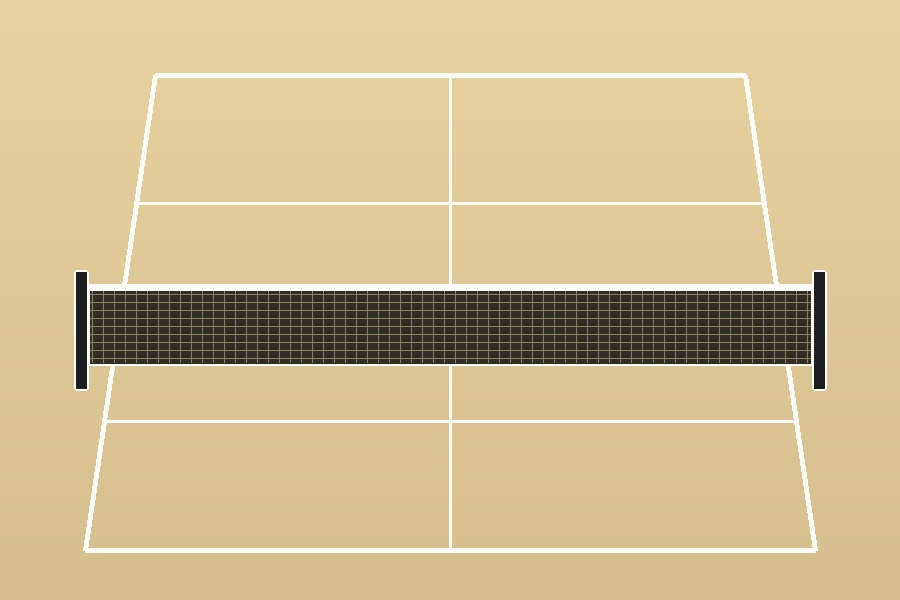
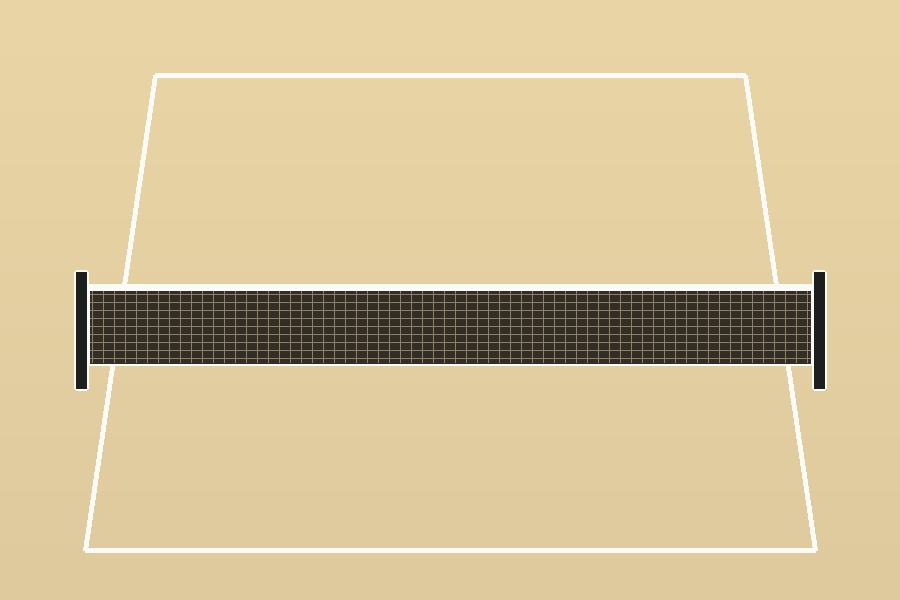
Add files via upload

Changed region(s): [[0.1244, 0.63, 0.8711, 0.9], [0.1556, 0.15, 0.84, 0.45]]

diff --git a/src/App.jsx b/src/App.jsx
@@ -13,21 +13,21 @@ const uid=()=>`${Date.now()}-${Math.random().toString(36).slice(2)}`;
 const clone=o=>JSON.parse(JSON.stringify(o));
 function useAsset(src){const[i,setI]=useState(null);useEffect(()=>{const x=new Image();x.src=src;x.onload=()=>setI(x)},[src]);return i}
 const starter=()=>[
- {id:uid(),type:"player",team:"A",x:320,y:445,label:"1",name:"Jogador 1",sprite:"back",visible:true},
- {id:uid(),type:"player",team:"A",x:610,y:445,label:"2",name:"Jogador 2",sprite:"back",visible:true},
- {id:uid(),type:"player",team:"B",x:330,y:235,label:"3",name:"Jogador 3",sprite:"front",visible:true},
- {id:uid(),type:"player",team:"B",x:610,y:235,label:"4",name:"Jogador 4",sprite:"front",visible:true},
- {id:uid(),type:"coach",x:110,y:410,label:"P",name:"Professor",sprite:"coach",visible:true}
+ {id:uid(),type:"player",team:"A",x:330,y:430,label:"1",name:"Jogador 1",sprite:"back",visible:true},
+ {id:uid(),type:"player",team:"A",x:595,y:430,label:"2",name:"Jogador 2",sprite:"back",visible:true},
+ {id:uid(),type:"player",team:"B",x:340,y:225,label:"3",name:"Jogador 3",sprite:"front",visible:true},
+ {id:uid(),type:"player",team:"B",x:585,y:225,label:"4",name:"Jogador 4",sprite:"front",visible:true},
+ {id:uid(),type:"coach",x:120,y:410,label:"P",name:"Professor",sprite:"coach",visible:true}
 ];
 
 export default function App(){
  const stageRef=useRef(), boxRef=useRef();
  const court=useAsset("/assets/premium-court.jpg"),front=useAsset("/assets/player_front.png"),back=useAsset("/assets/player_back.png"),coachImg=useAsset("/assets/coach.png");
- const[items,setItems]=useState(()=>{try{return JSON.parse(localStorage.getItem("jb112-items"))||starter()}catch{return starter()}});
+ const[items,setItems]=useState(()=>{try{return JSON.parse(localStorage.getItem("jb113-items"))||starter()}catch{return starter()}});
  const[selected,setSelected]=useState(null),[teamTab,setTeamTab]=useState("A"),[mode,setMode]=useState("select"),[draft,setDraft]=useState(null);
  const[history,setHistory]=useState([]),[future,setFuture]=useState([]),[scale,setScale]=useState(1);
  const[title,setTitle]=useState("Saque + subida"),[category,setCategory]=useState("Ofensiva"),[level,setLevel]=useState("Intermediário"),[desc,setDesc]=useState("Saque profundo no meio + subida para a rede.");
- const[scenes,setScenes]=useState(()=>{try{return JSON.parse(localStorage.getItem("jb112-scenes"))||[]}catch{return[]}});
+ const[scenes,setScenes]=useState(()=>{try{return JSON.parse(localStorage.getItem("jb113-scenes"))||[]}catch{return[]}});
  const[scene,setScene]=useState(0),[showPath,setShowPath]=useState(true),[showZones,setShowZones]=useState(true),[showNums,setShowNums]=useState(true),[showBrand,setShowBrand]=useState(true);
  const[playing,setPlaying]=useState(false),[progress,setProgress]=useState(0),[courtMode,setCourtMode]=useState("full");
  const[arrowColor,setArrowColor]=useState("#f4f72b");
@@ -44,7 +44,7 @@ export default function App(){
  const addSimple=t=>commit([...items,{id:uid(),type:t,x:450,y:350,name:t==="ball"?"Bola":t==="cone"?"Cone":"Texto",text:t==="text"?"Observação":"",visible:true}]);
  const del=()=>{if(sel){commit(items.filter(x=>x.id!==sel.id));setSelected(null)}};
  const duplicate=()=>{if(!sel)return;const c={...clone(sel),id:uid(),x:(sel.x||0)+22,y:(sel.y||0)+22};commit([...items,c])};
- const save=()=>{localStorage.setItem("jb112-items",JSON.stringify(items));localStorage.setItem("jb112-scenes",JSON.stringify(scenes));localStorage.setItem("jb112-meta",JSON.stringify({title,category,level,desc}))};
+ const save=()=>{localStorage.setItem("jb113-items",JSON.stringify(items));localStorage.setItem("jb113-scenes",JSON.stringify(scenes));localStorage.setItem("jb113-meta",JSON.stringify({title,category,level,desc}))};
  const exportPNG=()=>{const a=document.createElement("a");a.href=stageRef.current.toDataURL({pixelRatio:2});a.download=title.replace(/\W+/g,"_")+".png";a.click()};
  const point=()=>{const p=stageRef.current?.getPointerPosition();return p?{x:p.x/scale,y:p.y/scale}:null};
  const down=()=>{if(!["arrow","zone"].includes(mode))return;const p=point();if(!p)return;if(mode==="arrow")setDraft({type:"arrow",points:[p.x,p.y,p.x,p.y],color:arrowColor});else setDraft({type:"zone",x:p.x,y:p.y,w:0,h:0})};
@@ -98,8 +98,8 @@ export default function App(){
       <Stage ref={stageRef} width={W*scale} height={H*scale} scaleX={scale} scaleY={scale} onMouseDown={down} onTouchStart={down} onMouseMove={move} onTouchMove={move} onMouseUp={up} onTouchEnd={up}>
        <Layer>
         {court&&<KImage image={court} width={W} height={H}/>}
-        {showBrand&&<><Text x={340} y={82} text="JB TACTICS" fill="#dfffe0" fontSize={28} fontStyle="bold"/><Text x={375} y={112} text="BEACH TENNIS" fill={LIME} fontSize={11} letterSpacing={4}/></>}
-        {showZones&&<><Rect x={180} y={395} width={540} height={80} fill="rgba(84,230,0,.035)"/><Rect x={180} y={190} width={540} height={75} fill="rgba(84,230,0,.035)"/></>}
+        
+        
         {items.map(render)}
         {draft?.type==="arrow"&&<Arrow points={draft.points} stroke={draft.color||arrowColor} fill={draft.color||arrowColor} strokeWidth={6} dash={[13,8]} pointerLength={17} pointerWidth={17}/>}
         {draft?.type==="zone"&&<Rect x={draft.x} y={draft.y} width={draft.w} height={draft.h} fill="rgba(84,230,0,.12)" stroke={LIME} strokeWidth={3}/>}
